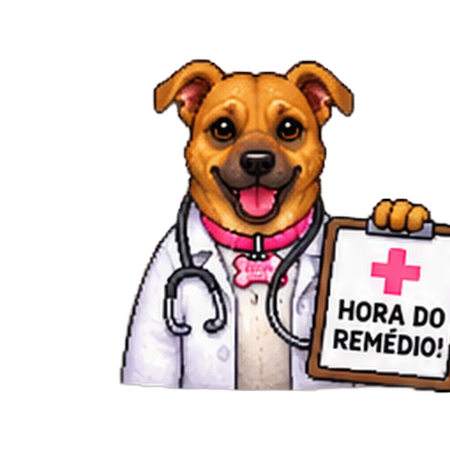
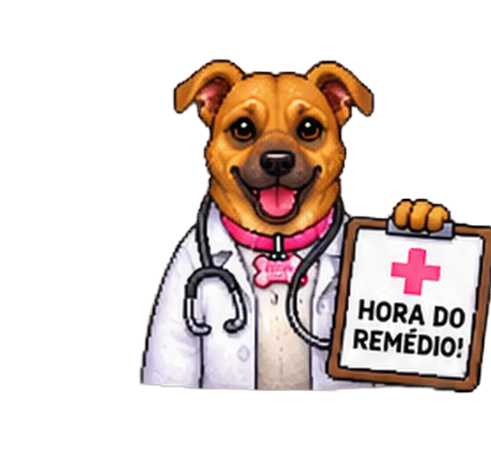
Corrige prancheta cortada (canvas mais largo, sem clipping) e reserva espaco fixo da faixa de sequencia mesmo quando vazia

Changed region(s): [[0.2489, 0.1244, 1.0, 0.8711], [0.56, 0.8089, 0.5911, 0.84]]

diff --git a/web/src/screens/HomeScreen.jsx b/web/src/screens/HomeScreen.jsx
@@ -177,12 +177,21 @@ export default function HomeScreen() {
         })}
       </div>
 
-      {sequenciaDias > 0 && (
-        <div style={estilos.faixaStreak}>
-          <Flame size={16} strokeWidth={2.5} fill={CORES.primariaEscura} />
-          {sequenciaDias} {sequenciaDias === 1 ? 'dia seguido' : 'dias seguidos'} em dia!
-        </div>
-      )}
+      <div
+        style={{
+          ...estilos.faixaStreak,
+          backgroundColor: sequenciaDias > 0 ? CORES.primariaClara : 'transparent',
+        }}
+      >
+        {sequenciaDias > 0 ? (
+          <>
+            <Flame size={16} strokeWidth={2.5} fill={CORES.primariaEscura} />
+            {sequenciaDias} {sequenciaDias === 1 ? 'dia seguido' : 'dias seguidos'} em dia!
+          </>
+        ) : (
+          '\u00A0'
+        )}
+      </div>
 
       <div style={{ padding: 16 }}>
         {dosesDoDia.length > 0 && (
@@ -366,6 +375,8 @@ function criarEstilos(CORES) {
       fontWeight: 600,
       fontSize: 14,
       padding: '10px 0',
+      minHeight: 40,
+      boxSizing: 'border-box',
     },
     cabecalhoLista: {
       display: 'flex',

diff --git a/web/src/utils/versao.js b/web/src/utils/versao.js
@@ -1,4 +1,4 @@
 // Atualizo esse número toda vez que envio uma mudança —
 // serve pra você confirmar se o app realmente atualizou no celular.
-export const VERSAO = '1.15.5';
-export const VERSAO_DESCRICAO = 'Corrige tamanho e centralizacao horizontal da imagem hora-remedio';
+export const VERSAO = '1.15.6';
+export const VERSAO_DESCRICAO = 'Corrige prancheta cortada + reserva espaco fixo da faixa de streak';
